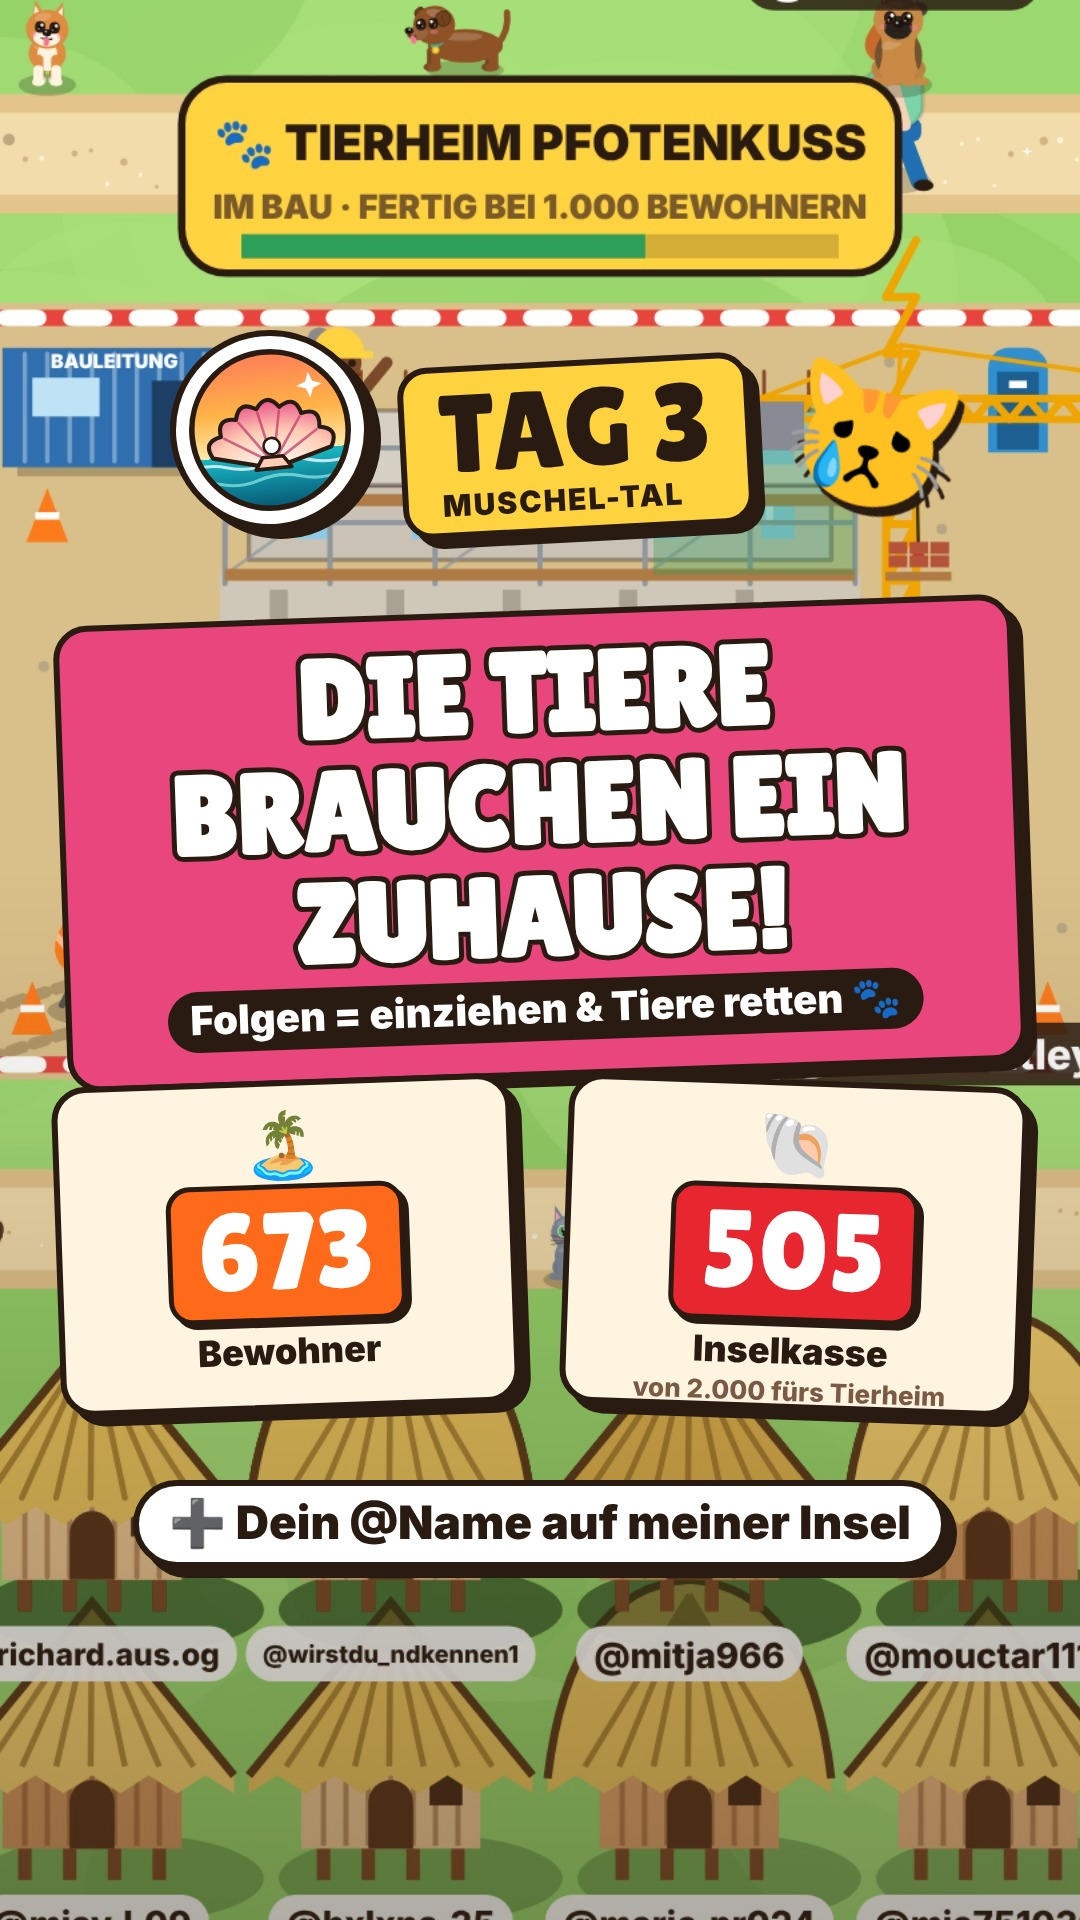
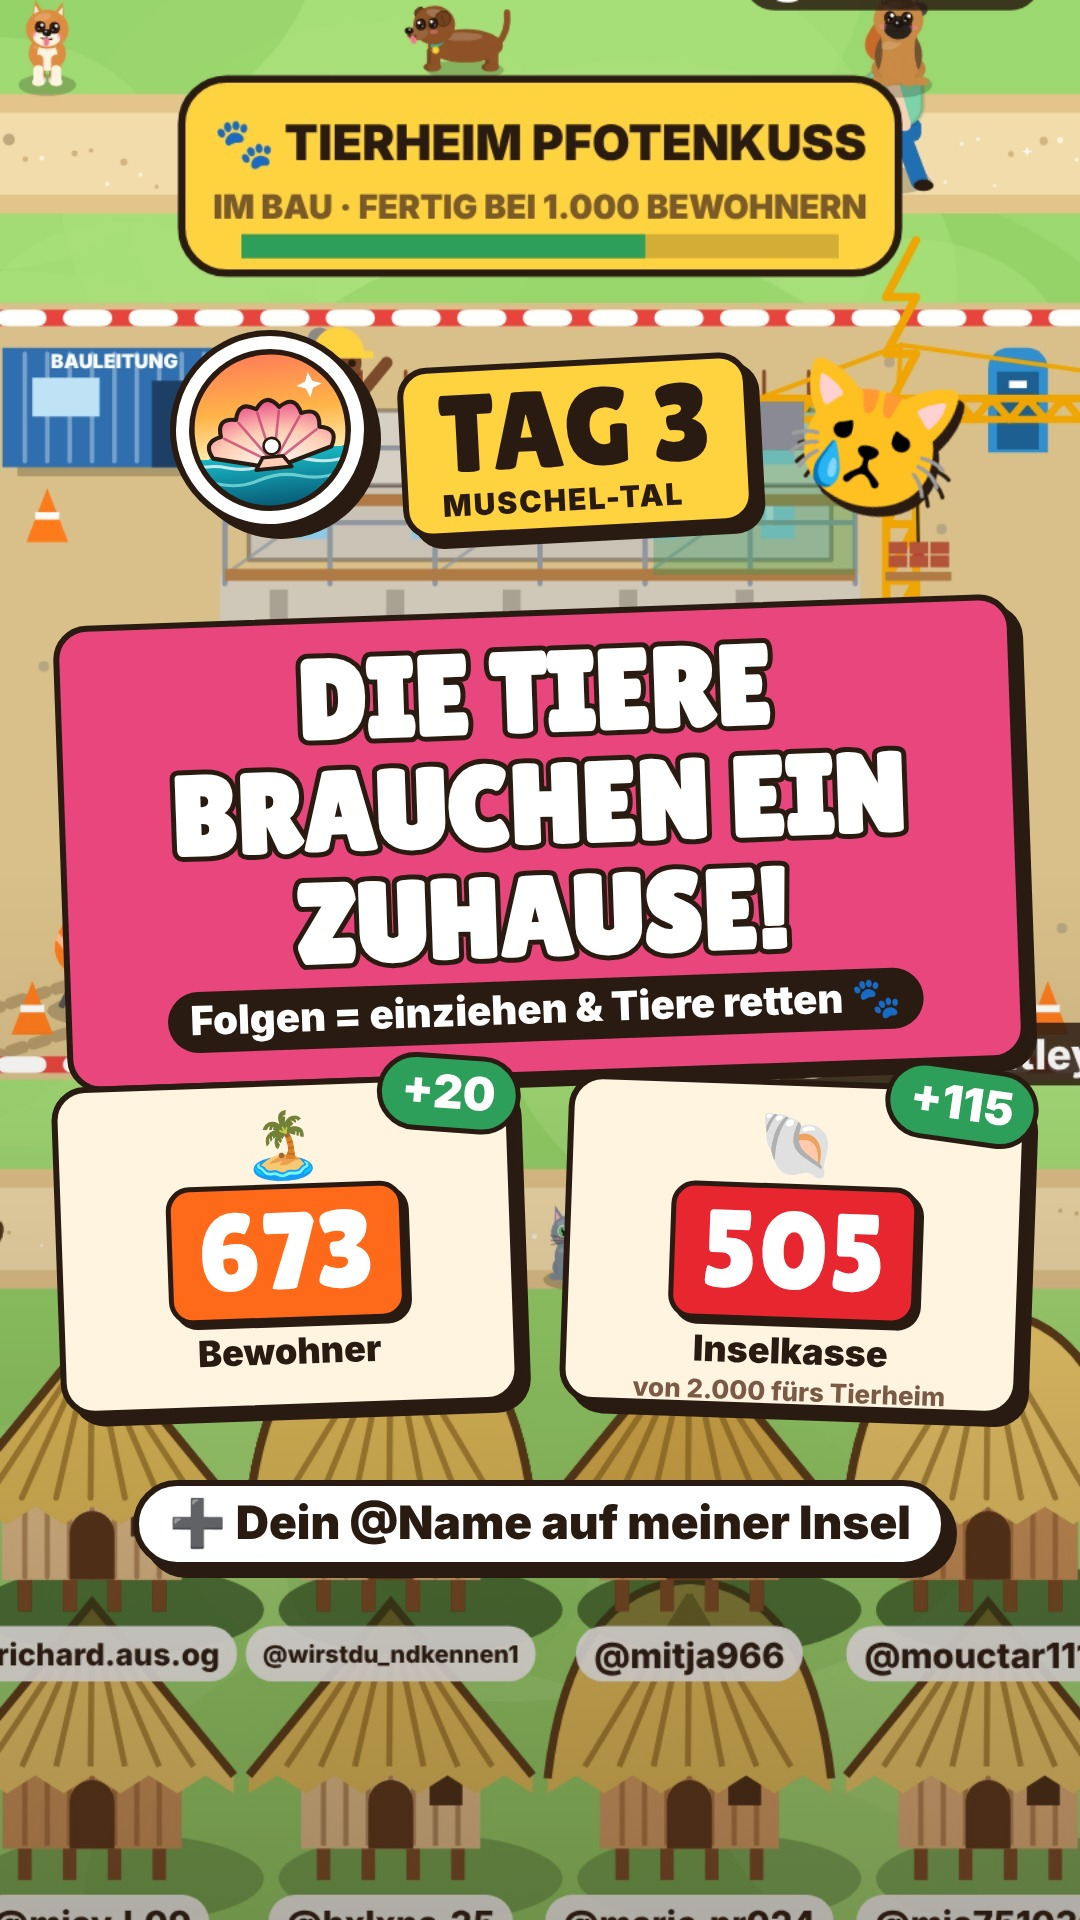
Tag 3: Thumbnail mit Veränderung zu Tag 2 (+20 Bewohner, +115 Inselkasse)
Claude-Session: https://claude.ai/code/session_01McNdgWwqfWZ56Gqk3h71JF

Changed region(s): [[0.825, 0.5312, 0.9778, 0.625], [0.3361, 0.5312, 0.4889, 0.5938]]

diff --git a/videos/muscheltal-tag3-tiere/cover/thumb.html b/videos/muscheltal-tag3-tiere/cover/thumb.html
@@ -27,7 +27,7 @@
 <div id="tag" class="stk">TAG 3<small>MUSCHEL-TAL</small></div>
 <div id="hl" class="stk"><b>DIE TIERE BRAUCHEN EIN ZUHAUSE!</b><span>Folgen = einziehen &amp; Tiere retten 🐾</span></div>
 <div id="coco">😿</div>
-<div id="c1" class="stk card"><div class="ic">🏝</div><div class="n">673</div><div class="l">Bewohner</div></div>
-<div id="c2" class="stk card"><div class="ic">🐚</div><div class="n" style="background:#e8262f">505</div><div class="l">Inselkasse</div><div class="v">von 2.000 fürs Tierheim</div></div>
+<div id="c1" class="stk card"><div class="ic">🏝</div><div class="n">673</div><div class="l">Bewohner</div><div class="d">+20</div></div>
+<div id="c2" class="stk card"><div class="ic">🐚</div><div class="n" style="background:#e8262f">505</div><div class="l">Inselkasse</div><div class="v">von 2.000 fürs Tierheim</div><div class="d">+115</div></div>
 <div id="acc" class="stk">➕ Dein @Name auf meiner Insel</div>
 </body></html>

diff --git a/videos/muscheltal-tag3-tiere/BESCHREIBUNG.md b/videos/muscheltal-tag3-tiere/BESCHREIBUNG.md
@@ -1,6 +1,6 @@
 # Muschel-Tal – Tag 3 · Beschreibung
 
-**Cover:** `renders/cover.jpg` (Vorlage `cover/thumb.html`, gewohntes Layout wie Tag 2) – Logo + „TAG 3“, „DIE TIERE BRAUCHEN EIN ZUHAUSE! – Folgen = einziehen & Tiere retten 🐾“, Karten „673 Bewohner“ und „505 Inselkasse (von 2.000 fürs Tierheim)“, „➕ Dein @Name auf meiner Insel“. Hintergrund: Baustelle Tierheim Pfotenkuss mit streunenden Katzen (Homepage-Aufnahme).
+**Cover:** `renders/cover.jpg` (Vorlage `cover/thumb.html`, gewohntes Layout wie Tag 2) – Logo + „TAG 3“, „DIE TIERE BRAUCHEN EIN ZUHAUSE! – Folgen = einziehen & Tiere retten 🐾“, Karten „673 Bewohner (+20 seit Tag 2: 653)“ und „505 Inselkasse (+115 seit Tag 2: 653 × 5 − 2.875 = 390; von 2.000 fürs Tierheim)“, „➕ Dein @Name auf meiner Insel“. Hintergrund: Baustelle Tierheim Pfotenkuss mit streunenden Katzen (Homepage-Aufnahme).
 
 **Verlosung Strandvilla:** @emiliamarie155 (Nr. 225) und @lea.3818730 (Nr. 286), am 10.11. per Zufall (Python `secrets.choice`) aus allen Einwohnern ohne Amt/Job gezogen.
 
